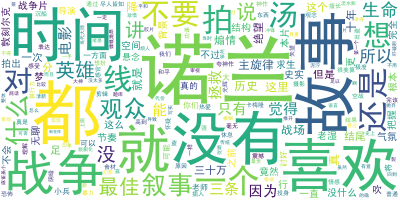
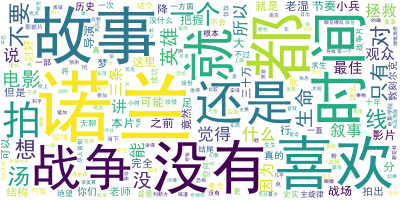
adjust code

diff --git a/python/zhanlang2.py b/python/zhanlang2.py
@@ -1,4 +1,8 @@
 #!/usr/bin/python3
+# coding: utf-8
+
+import warnings
+warnings.filterwarnings('ignore')
 
 from urllib import request
 from bs4 import BeautifulSoup as bs
@@ -6,66 +10,93 @@ import re
 import jieba
 import pandas as pd
 import numpy
+import codecs
 import matplotlib.pyplot as plt
-#%matplotlib inline
-
-
-resp = request.urlopen("https://movie.douban.com/nowplaying/hangzhou/")
-html_data = resp.read().decode('utf-8')
-
-soup = bs(html_data, "html.parser")
-nowplaying_movie = soup.find_all('div', id='nowplaying')
-nowplaying_movie_list = nowplaying_movie[0].find_all('li', class_='list-item')
-
-nowplaying_list = []
-for item in nowplaying_movie_list:
-	nowplaying_dict = {}
-	nowplaying_dict['id'] = item['data-subject']
-	for tag_img_item in item.find_all('img'):
-		nowplaying_dict['name'] = tag_img_item['alt']
-		nowplaying_list.append(nowplaying_dict)
-
-requrl = 'https://movie.douban.com/subject/' + nowplaying_list[0]['id'] + '/comments' + '?' + 'start=0' + '&limit=20'
-resq = request.urlopen(requrl)
-html_data = resq.read().decode('utf-8')
-soup = bs(html_data, 'html.parser')
-comment_div_list = soup.find_all('div', class_='comment')
-
-eachCommentList = []
-for item in comment_div_list:
-	if item.find_all('p')[0].string is not None:
-		eachCommentList.append(item.find_all('p')[0].string)
-
-comments = ''
-for k in range(len(eachCommentList)):
-	comments += (str(eachCommentList[k])).strip()
-
-pattern = re.compile(r'[\u4e00-\u9fa5]+')
-filterdata = re.findall(pattern, comments)
-cleaned_comments = ''.join(filterdata)
-
-segment = jieba.lcut(cleaned_comments)
-words_df = pd.DataFrame({'segment':segment})
-
-stopwords = pd.read_csv('stopwords.txt', index_col=False, quoting=3, sep='\t', names=['stopword'], encoding='utf-8')
-words_df = words_df[~words_df.segment.isin(stopwords.stopword)]
-
-words_stat = words_df.groupby(by=['segment'])['segment'].agg({'计数':numpy.size})
-words_stat = words_stat.reset_index().sort_values(by=['计数'],ascending=False)
 
 import matplotlib
 matplotlib.rcParams['figure.figsize'] = (10.0, 5.0)
 
 from wordcloud import WordCloud
-wordcloud = WordCloud(font_path='simhei.ttf', background_color = 'white', max_font_size=80)
-word_frequence = {x[0]:x[1] for x in words_stat.head(1000).values}
-word_frequence_list = []
-for key in word_frequence:
-	temp = (key, word_frequence[key])
-	word_frequence_list.append(temp)
 
-wordcloud = wordcloud.fit_words(word_frequence)
-wordcloud.to_file('test.png')
+# parse web page
+def getNowPlayingMovie_list():
+	resp = request.urlopen("https://movie.douban.com/nowplaying/hangzhou/")
+	html_data = resp.read().decode('utf-8')
+
+	soup = bs(html_data, "html.parser")
+	nowplaying_movie = soup.find_all('div', id='nowplaying')
+	nowplaying_movie_list = nowplaying_movie[0].find_all('li', class_='list-item')
+
+	nowplaying_list = []
+	for item in nowplaying_movie_list:
+		nowplaying_dict = {}
+		nowplaying_dict['id'] = item['data-subject']
+		for tag_img_item in item.find_all('img'):
+			nowplaying_dict['name'] = tag_img_item['alt']
+			nowplaying_list.append(nowplaying_dict)
+	return nowplaying_list
+
+# get comments
+def getCommentsById(movieId, pageNum):
+	eachCommentsList = []
+	if pageNum > 0:
+		start = (pageNum - 1) * 20
+	else:
+		return False
+
+	requrl = 'https://movie.douban.com/subject/' + movieId + '/comments' + '?' + 'start=0' + '&limit=20'
+	resq = request.urlopen(requrl)
+	html_data = resq.read().decode('utf-8')
+	soup = bs(html_data, 'html.parser')
+	comment_div_list = soup.find_all('div', class_='comment')
+
+	for item in comment_div_list:
+		if item.find_all('p')[0].string is not None:
+			eachCommentsList.append(item.find_all('p')[0].string)
+	return eachCommentsList
+
+def main():
+	# first ten page comments
+	commentList = []
+	NowPlayingMovie_list = getNowPlayingMovie_list()
+	for i in range(10):
+		num = i + 1
+		commentList_temp = getCommentsById(NowPlayingMovie_list[0]['id'], num)
+		commentList.append(commentList_temp)
+
+	comments = ''
+	for k in range(len(commentList)):
+		comments += (str(commentList[k])).strip()
+
+	# remove punctuation with regular,expression
+	pattern = re.compile(r'[\u4e00-\u9fa5]+')
+	filterdata = re.findall(pattern, comments)
+	cleaned_comments = ''.join(filterdata)
+
+	# split chinese word with jieba
+	segment = jieba.lcut(cleaned_comments)
+	words_df = pd.DataFrame({'segment':segment})
+
+	# remove stop words
+	stopwords = pd.read_csv('stopwords.txt', index_col=False, quoting=3, sep='\t', names=['stopword'], encoding='utf-8')
+	words_df = words_df[~words_df.segment.isin(stopwords.stopword)]
+
+	# words frequency statistics
+	words_stat = words_df.groupby(by=['segment'])['segment'].agg({'计数':numpy.size})
+	words_stat = words_stat.reset_index().sort_values(by=['计数'],ascending=False)
+	
+	# to show word cloud picture with word cloud
+	wordcloud = WordCloud(font_path='simhei.ttf', background_color = 'white', max_font_size=80)
+	word_frequence = {x[0]:x[1] for x in words_stat.head(1000).values}
+
+	word_frequence_list = []
+	for key in word_frequence:
+		temp = (key, word_frequence[key])
+		word_frequence_list.append(temp)
+
+	wordcloud = wordcloud.fit_words(word_frequence)
+	wordcloud.to_file('test.png')
 #plt.imshow(wordcloud)
 
-
+# main function
+main()
